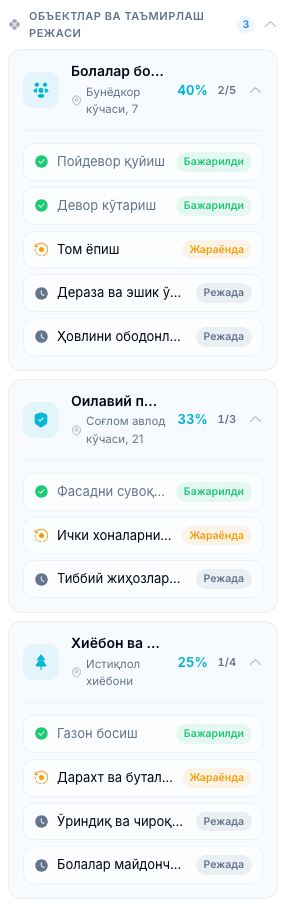
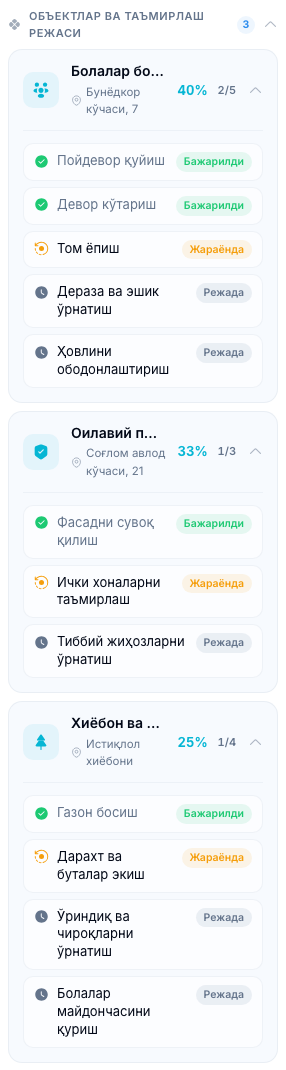
feat(mfy): realistic long work names in road repair plan mock data

diff --git a/lib/mock-data.ts b/lib/mock-data.ts
@@ -264,8 +264,8 @@ export const mfyInfrastructure: Record<
         address: "Гулзор маҳалласи",
         plan: [
           { work: "Йўл асосини тайёрлаш", status: "done" },
-          { work: "Асфальт қоплама ётқизиш", status: "in_progress" },
-          { work: "Йўл четларини ободонлаштириш", status: "pending" },
+          { work: "Асфальт қоплама ётқизиш ва йўл чизиқларини белгилаш, сув оқова тизимини қайта жиҳозлаш", status: "in_progress" },
+          { work: "Йўл четларини ободонлаштириш, пиёдалар йўлакчаларини қайта қуриш ҳамда йўл белгиларини ўрнатиш", status: "pending" },
           { work: "Кўча ёритишни ўрнатиш", status: "pending" },
         ],
       },
